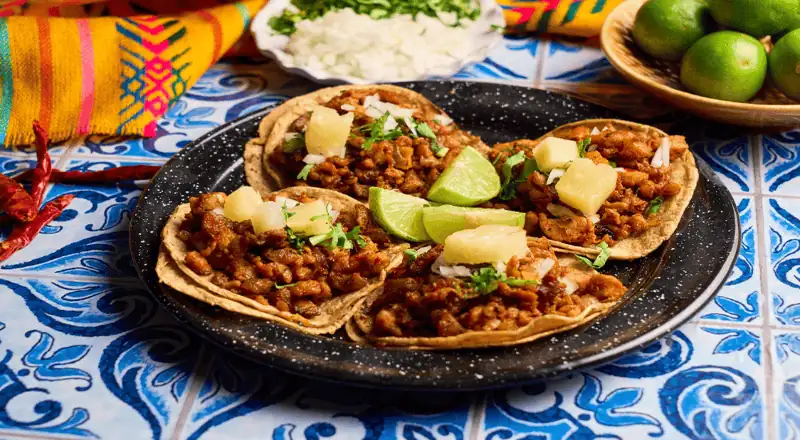
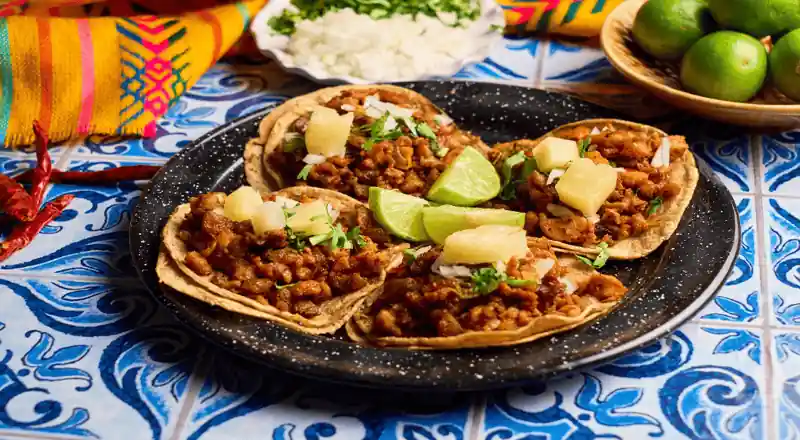
Cambios Detalles Rendimiento Sharp e Index

diff --git a/src/det2/index.html b/src/det2/index.html
@@ -16,6 +16,29 @@
         this.rel = 'stylesheet';
       "
     />
+    <link rel="preload" as="image" href="../assets/img/bg_1_768.webp" media="(max-width: 767px)" fetchpriority="high" />
+
+    <link
+      rel="preload"
+      as="image"
+      href="../assets/img/bg_1_1200.webp"
+      media="(min-width: 768px) and (max-width: 1023px)"
+      fetchpriority="high"
+    />
+
+    <link
+      rel="preload"
+      as="image"
+      href="../assets/img/bg_1_1600.webp"
+      media="(min-width: 1024px)"
+      fetchpriority="high"
+    />
+    <noscript>
+      <link
+        rel="stylesheet"
+        href="https://fonts.googleapis.com/css2?family=Audiowide&family=Bungee&family=Merienda:wght@300..900&family=Open+Sans:ital,wght@0,300..800;1,300..800&display=swap"
+      />
+    </noscript>
   </head>
   <body>
     <include src="partials/header.html"></include>
@@ -30,6 +53,9 @@
               src="../assets/img/det2_header_desktop.webp"
               alt="Imagen principal de la cultura mexicana"
               class="detail_img"
+              width="800"
+              height="440"
+              fetchpriority="high"
             />
           </picture>
 
@@ -53,6 +79,8 @@
                   src="../assets/img/fajita_carrousel_1_1x.webp"
                   alt="Taco loco 1"
                   class="carousel_img active"
+                  width="600"
+                  height="400"
                   loading="lazy"
                 />
                 <img
@@ -60,6 +88,8 @@
                   src="../assets/img/fajita_carrousel_2_1x.webp"
                   alt="Taco loco 2"
                   class="carousel_img"
+                  width="600"
+                  height="400"
                   loading="lazy"
                 />
                 <img
@@ -67,6 +97,8 @@
                   src="../assets/img/fajita_carrousel_3_1x.webp"
                   alt="Taco loco 3"
                   class="carousel_img"
+                  width="600"
+                  height="400"
                   loading="lazy"
                 />
                 <img
@@ -74,6 +106,8 @@
                   src="../assets/img/fajita_carrousel_4_1x.webp"
                   alt="Taco loco 4"
                   class="carousel_img"
+                  width="600"
+                  height="400"
                   loading="lazy"
                 />
               </div>

diff --git a/sharp_img_optimization.js b/sharp_img_optimization.js
@@ -88,7 +88,7 @@ const imageConversion = [
         width: 800,
         height: 440,
         fit: 'cover',
-        quality: 60,
+        quality: 30,
       },
     ],
   },
@@ -109,7 +109,7 @@ const imageConversion = [
         width: 800,
         height: 440,
         fit: 'cover',
-        quality: 60,
+        quality: 40,
       },
     ],
   },

diff --git a/tabla_imagenes_optimizadas.md b/tabla_imagenes_optimizadas.md
@@ -25,9 +25,9 @@
 | enchilada.png | enchilada_640.webp | PNG | WEBP | 163.89 KB | 70.54 KB | 56.96% |
 | enchilada.png | enchilada_960.webp | PNG | WEBP | 163.89 KB | 89.24 KB | 45.55% |
 | tacos.png | det1_header_mobile.webp | PNG | WEBP | 198.92 KB | 28.8 KB | 85.52% |
-| tacos.png | det1_header_desktop.webp | PNG | WEBP | 198.92 KB | 58.45 KB | 70.62% |
+| tacos.png | det1_header_desktop.webp | PNG | WEBP | 198.92 KB | 38.13 KB | 80.83% |
 | fajita_carrousel_3.png | det2_header_mobile.webp | PNG | WEBP | 158.39 KB | 10.97 KB | 93.07% |
-| fajita_carrousel_3.png | det2_header_desktop.webp | PNG | WEBP | 158.39 KB | 22.41 KB | 85.85% |
+| fajita_carrousel_3.png | det2_header_desktop.webp | PNG | WEBP | 158.39 KB | 16.71 KB | 89.45% |
 | taco_carrousel_1.png | taco_carrousel_1_1x.webp | PNG | WEBP | 187.96 KB | 16.87 KB | 91.02% |
 | taco_carrousel_1.png | taco_carrousel_1_2x.webp | PNG | WEBP | 187.96 KB | 25.18 KB | 86.6% |
 | taco_carrousel_2.png | taco_carrousel_2_1x.webp | PNG | WEBP | 144.42 KB | 13.15 KB | 90.89% |
